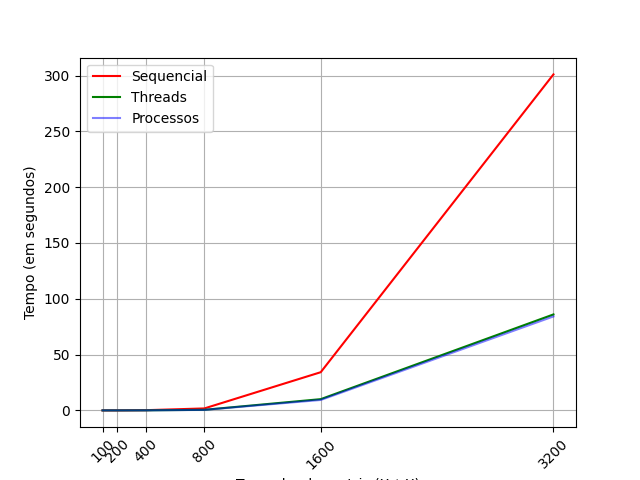
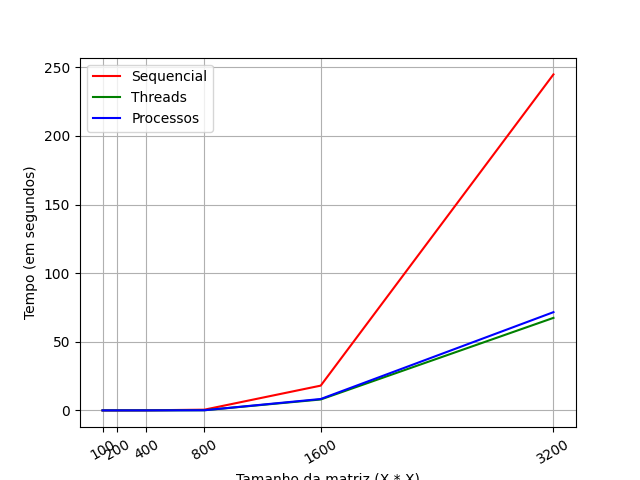
Esqueci de fazer o commit

diff --git a/src/etapa2E1.py b/src/etapa2E1.py
@@ -2,6 +2,7 @@ import os
 import subprocess
 import math
 import matplotlib.pyplot as plt
+import time
 
 def get_time(file_name):
   with open(file_name, 'rb') as f:
@@ -27,11 +28,11 @@ aux_prog = abs_path + "bin/auxiliar"      # Programa auxiliar
 seq_prog = abs_path + "bin/sequencial"    # Programa Sequencial
 thr_prog = abs_path + "bin/threads"       # Programa Threads
 pro_prog = abs_path + "bin/processos"     # Programa Processos
-mat1 = abs_path + "mat/matriz1.txt"       # Matriz de entrada 1
-mat2 = abs_path + "mat/matriz2.txt"       # Matriz de entrada 2
-thr_mat = abs_path + "mat/threads/"       # Pasta de resultados do programa Threads
-pro_mat = abs_path + "mat/processos/"     # Pasta de resultados do programa Processos
-seq_mat = abs_path +"mat/sequencial.txt"  # Local do arquivo resultado do programa Sequencial
+mat1     = abs_path + "mat/matriz1.txt"   # Matriz de entrada 1
+mat2     = abs_path + "mat/matriz2.txt"   # Matriz de entrada 2
+thr_mat  = abs_path + "mat/threads/"      # Pasta de resultados do programa Threads
+pro_mat  = abs_path + "mat/processos/"    # Pasta de resultados do programa Processos
+seq_mat  = abs_path + "mat/sequencial.txt" # Local do arquivo resultado do programa Sequencial
 
 mat_size = []
 seq_time = []
@@ -62,17 +63,25 @@ while current_time < 120.0:
   
   #Realiza as 10 multiplicações por matriz, pode fazer os programas demorarem muito, diminua se necessário
   for i in range(10):
+    print(f"Iteração {i}\n")
+    t1 = time.time()
     sequencial = subprocess.Popen([seq_prog, mat1, mat2])
     sequencial.wait()
+    t2 = time.time()
     process = subprocess.Popen([pro_prog, mat1, mat2, p])
     process.wait()
+    t3 = time.time()
     threads = subprocess.Popen([thr_prog, mat1, mat2, p])
     threads.wait()
+    t4 = time.time()
     
-    seq_time[iteration] += get_time(seq_mat)
-    thr_time[iteration] += biggest_time(thr_mat)
-    pro_time[iteration] += biggest_time(pro_mat)    
-  
+    # seq_time[iteration] += get_time(seq_mat)
+    # thr_time[iteration] += biggest_time(thr_mat)
+    # pro_time[iteration] += biggest_time(pro_mat)    
+    seq_time[iteration] += t2 - t1
+    thr_time[iteration] += t4 - t3
+    pro_time[iteration] += t3 - t2 
+
   seq_time[iteration] = round(seq_time[iteration] / 10, 8)
   thr_time[iteration] = round(thr_time[iteration] / 10, 8)
   pro_time[iteration] = round(pro_time[iteration] / 10, 8)
@@ -91,12 +100,13 @@ with open("resultados.txt", "w") as f:
    f.write(str(thr_time) + "\n")
    f.write(str(pro_time))
 
-plt.xticks(mat_size, rotation=30)
-plt.xlabel("Tamanho da matriz (X * X)")
-plt.ylabel("Tempo (em segundos)")
 plt.plot(mat_size, seq_time, color='red', label='Sequencial')
 plt.plot(mat_size, thr_time, color='green', label='Threads')
 plt.plot(mat_size, pro_time, color='blue', label='Processos')
+plt.xticks(mat_size, rotation=30)
+plt.xlabel("Tamanho da matriz (X * X)")
+plt.ylabel("Tempo (em segundos)")
 plt.grid(True)
 plt.legend()
-plt.savefig("./grafico.png")
+plt.gcf().subplots_adjust(bottom=0.15)
+plt.savefig("./grafico_1.png")

diff --git a/src/etapa2E2.py b/src/etapa2E2.py
@@ -2,6 +2,7 @@ import os
 import subprocess
 import math
 import matplotlib.pyplot as plt
+import time
 
 def get_time(file_name):
   with open(file_name, 'rb') as f:
@@ -34,16 +35,18 @@ pro_mat = abs_path + "mat/processos/"
 seq_mat = abs_path +"mat/sequencial.txt"
 
 mat_size = 3200
-seq_time = []
 pro_time = []
 thr_time = []
 n = [32,24,18,10,8,6,4,2]
+
+# thr_time = [0.0, 0.0, 8.7258057 , 7.3496473 , 9.1806571 , 22.9132896, 18.705125 , 19.8938228, 23.3714966, 44.7086938]
+# pro_time = [0.0, 0.0, 10.6525795, 10.2134915, 11.5543804, 23.9505692, 23.8406654, 25.3647361, 35.8967163, 59.6054581]
 
 iteration = 0
                     ### IMPORTANTE ###
 # Apague qualquer arquivo txt anterior antes de rodar o programa #
 
-for i in exec:
+for i in n:
   os.system("rm -f ./mat/threads/* ./mat/processos/*")
 
   pro_time.append(0)
@@ -53,15 +56,21 @@ for i in exec:
   
   for i in range(3):
     print("Iniciando iteração ", i, "\nExecutando processos")
+    t1 = time.time()
     process = subprocess.Popen([pro_prog, mat1, mat2, p])
     process.wait()
+    t2 = time.time()
     print("Executando threads")
+    t3 = time.time()
     threads = subprocess.Popen([thr_prog, mat1, mat2, p])
     threads.wait()
+    t4 = time.time()
     
-    pro_time[iteration] += biggest_time(pro_mat)    
-    thr_time[iteration] += biggest_time(thr_mat)
-  
+    # pro_time[iteration] += biggest_time(pro_mat)    
+    # thr_time[iteration] += biggest_time(thr_mat)
+    pro_time[iteration] += t2 - t1
+    thr_time[iteration] += t4 - t3
+
   pro_time[iteration] = round(pro_time[iteration] / 10, 8)
   thr_time[iteration] = round(thr_time[iteration] / 10, 8)
 
@@ -79,4 +88,4 @@ plt.plot(n, thr_time, color='green', label='Threads')
 plt.plot(n, pro_time, color='blue', label='Processos')
 plt.grid(True)
 plt.legend()
-plt.savefig("./grafico2.png")
+plt.savefig("./grafico2_1.png")

diff --git a/Relatorio.md b/Relatorio.md
@@ -1,1 +1,24 @@
+~~~~
+Trabalho por Luís Henrique Melo Scalabrin
+~~~~
 ## Etapa 2 - Sequencial VS Paralelo
+### A) Qual o motivo dos resultados obtidos no experimento E1?
+![grafico de comparação entre programas em função do tamanho da matriz](grafico.png)
+Gráfico de comparação entre os 3 programas em função do tamanho da matriz
+
+A partir do gráfico acima, podemos analisar 2 comportamentos:
+
+- Os 3 programas não têm grandes diferenças de tempo para matrizes de tamanho até 800x800
+- Acima de 800x800, o aumento de tempo para o programa sequencial é exponencialmente maior do que os programas paralelos
+
+Para o último comportamento, é certo que o motivo do ganho de performance nos programas que utilizam threads e processos se deve ao paralelismo deles, já que os elementos da matriz resultante podem ser calculado sem interferências entre eles mesmo, enquanto o programa sequencial deve calcular cada elemento de forma sequencial. 
+
+----------
+### B) Qual o motivo dos resultados obtidos no experimento E2?
+![grafico de comparação entre os programas paralelos em função do número de elementos por processo/thread](grafico2.png)Gráfico de comparação entre os programas paralelos em função do número de processos/threads
+
+Vemos que o dado o mesmo número de processos e threads para resolver a multiplicação das matrizes, as threads são mais rápidas que os processos. Isso acontece por que a instanciação de uma thread é mais "leve" do que a instaciação de um process, pois a thread tem menos elementos (contador de programa, stack e registradores) do que um processo, que é um cópia do processo original
+
+### C) Qual é o valor de P ideal para a multiplicação das matrizes M1 e M2?
+
+Podemos ver com base no gráfico do experimento B que os programas atingem seus tempos mínimos com um P correspondente ao número de elementos da matriz resultante dividida por 24 (como a matriz é 3200x3200, isso equivale a 426.667 elementos por thread/processo). É possível que a partir deste ponto, aumentar o número de threads/processos não seja mais vantajoso pelo custo computacional da troca de contexto e/ou pelo grande número de threads/processos esperando na fila de escalonamento.
